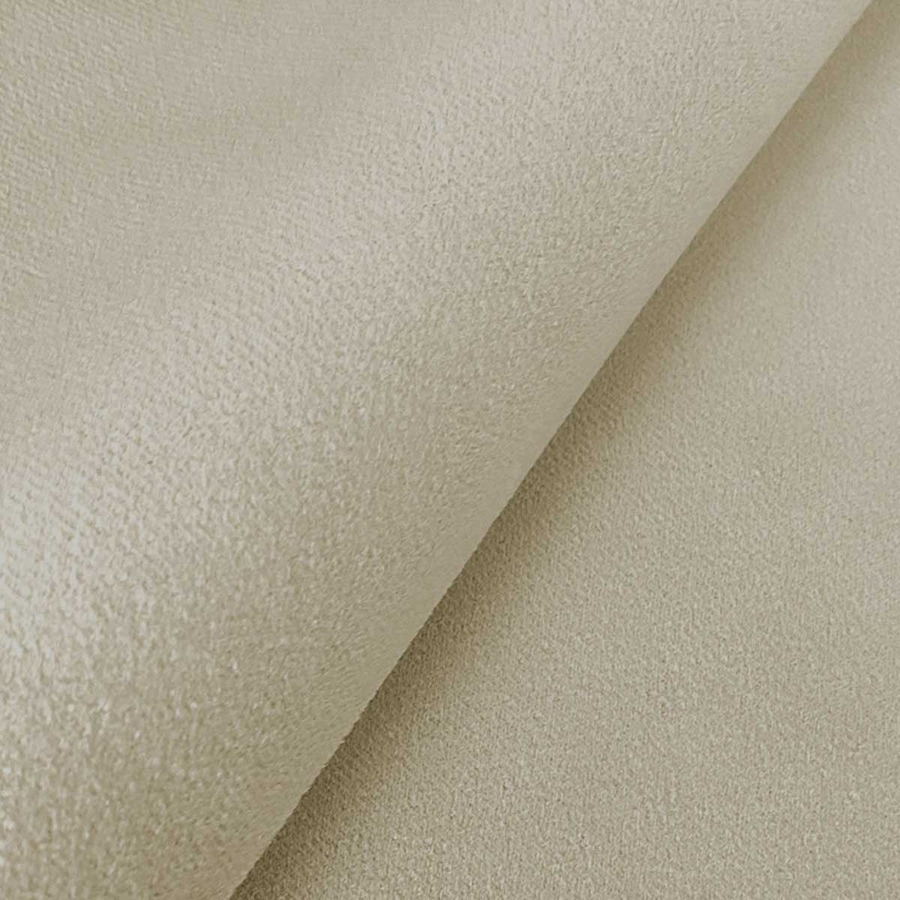
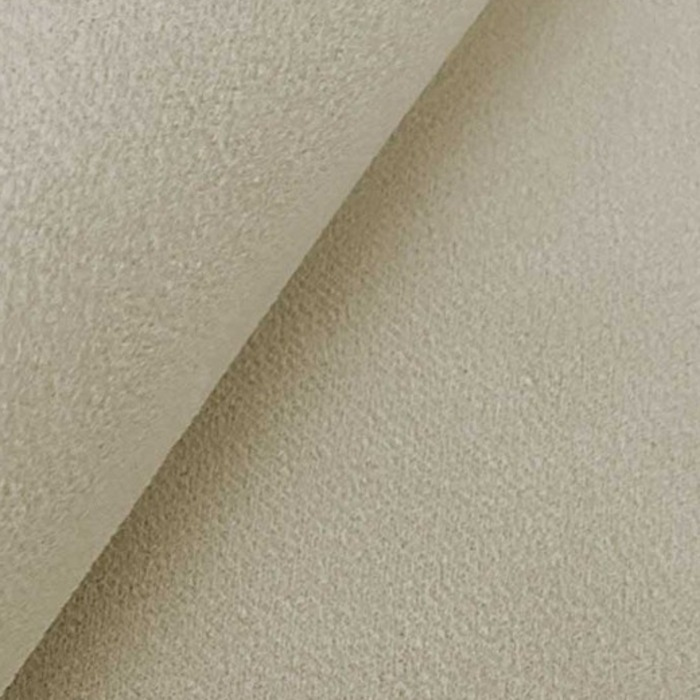
v11: recenter fold point/line in chip photos, zoom in further
Neted/Texturat: recropped so the fabric's fold corner sits in the
middle of the frame instead of low-right. Catifea/Efect catifea:
recropped so the diagonal fold line runs through the center. Also
bumped background-size 280% -> 420% for a tighter, more legible crop
at the chip's 48px size.

diff --git a/mobile-v11.html b/mobile-v11.html
@@ -129,7 +129,7 @@ h3.cfg-title{font-size:18px;font-weight:600;letter-spacing:-.03em;line-height:1.
 .cfg-fabric-pillrow::-webkit-scrollbar{display:none}
 .cfg-seg{flex:0 0 auto;display:inline-flex;align-items:center;gap:9px;background:#fff;border:1px solid var(--ink);border-radius:9999px;padding:6px 18px 6px 6px;color:var(--ink);transition:background-color .15s,color .15s,border-color .15s}
 .cfg-seg.on{background:var(--ink);border-color:var(--ink);color:#fff}
-.cfg-seg .dot{width:48px;height:48px;border-radius:50%;flex:0 0 auto;background-size:280%;background-position:center;box-shadow:inset 0 0 0 1px rgba(0,0,0,.08)}
+.cfg-seg .dot{width:48px;height:48px;border-radius:50%;flex:0 0 auto;background-size:420%;background-position:center;box-shadow:inset 0 0 0 1px rgba(0,0,0,.08)}
 .cfg-seg .nm{font-size:15px;font-weight:500;letter-spacing:-.2px;white-space:nowrap}
 /* same chip, smaller -- used in the Filtre sheet's Material group so all 4 fit on one row */
 .cfg-seg.sm{gap:7px;padding:5px 14px 5px 5px}
